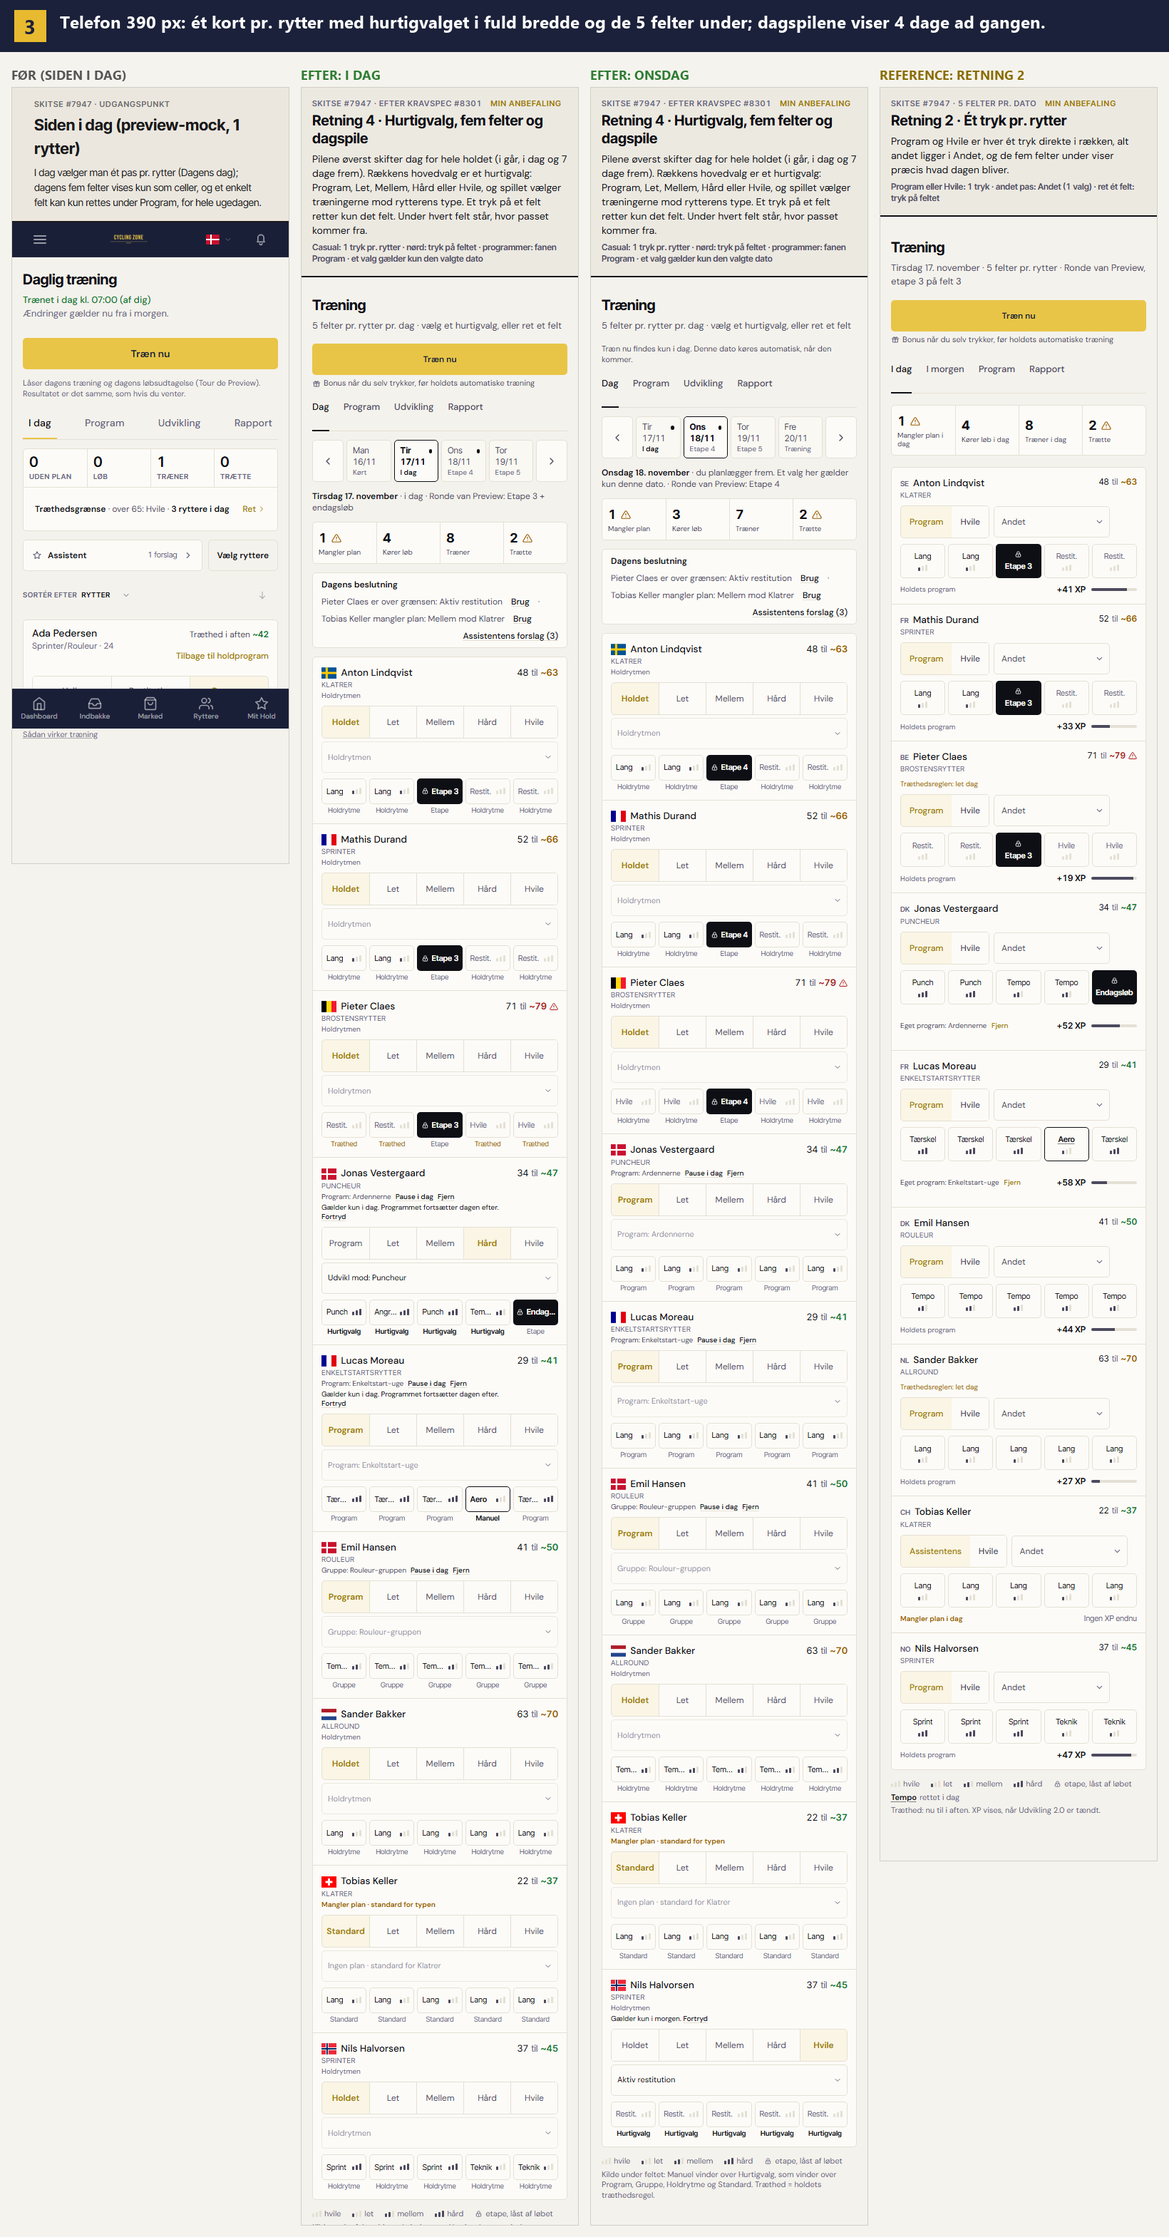
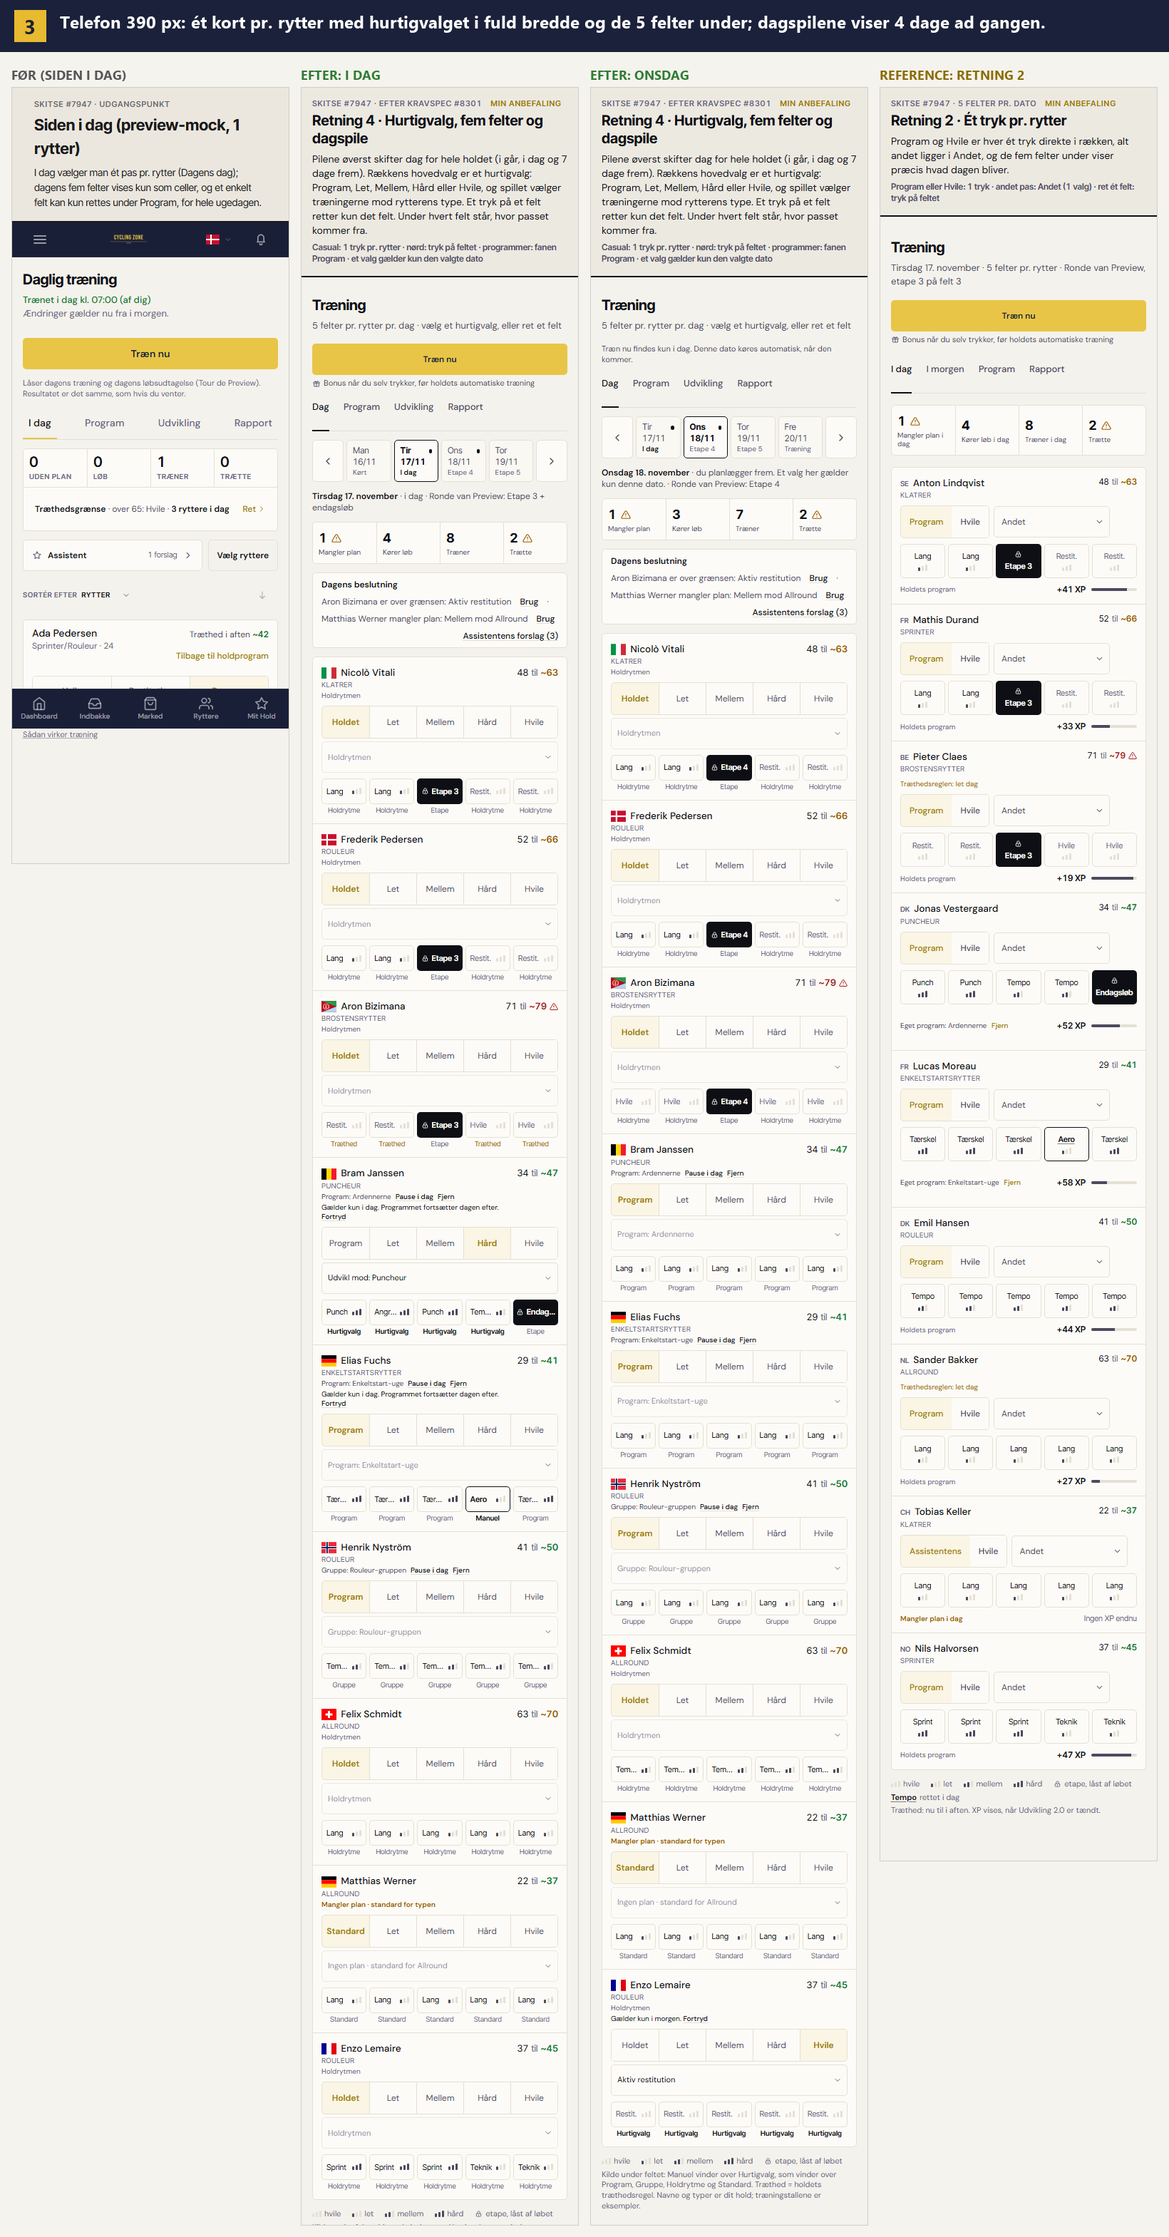
design(7947): R4 med dit hold, spoergsmaal 1-3 i billeder og programmet som uge/rotation (Refs #7947)

diff --git a/frontend/src/preview/sketches/7947-samlet/R4Extras.tsx b/frontend/src/preview/sketches/7947-samlet/R4Extras.tsx
@@ -1,0 +1,198 @@
+// #7947 retning 4, ekstra billeder til ejeren:
+//  - ?v=r4&view=q: tre smaa udsnit, der viser anbefaling mod alternativ for
+//    ejerspoergsmaal 1-3 (kravspec #8301 §7).
+//  - ?v=r4&view=program: programmet som eet objekt med tilstanden uge ELLER
+//    rotation (spm. 5, teknisk valg), med "laas et pas" og pause ved hvile (#7456).
+// Intet her er produktkode.
+
+import type { ReactNode } from "react";
+import { LockIcon } from "../../../components/ui/icons/index.jsx";
+import { levelOf, type Level, type Session } from "./model.ts";
+import { SESSION_SHORT } from "./data.ts";
+import { quickPattern } from "./r4model.ts";
+
+type Cell = Session | "S";
+type Src = "Program" | "Hurtigvalg" | "Etape" | "Kørt";
+
+function Ticks({ level }: { level: Level }) {
+  return (
+    <span aria-hidden="true" className="flex items-end gap-[2px]">
+      {[1, 2, 3].map((n) => <span key={n} className={`w-[3px] rounded-[1px] ${n <= level ? "bg-cz-2" : "bg-cz-border"}`} style={{ height: 3 + n * 2 }} />)}
+    </span>
+  );
+}
+
+function Strip({ cells, src, label }: { cells: Cell[]; src: Src[]; label: string }) {
+  return (
+    <div>
+      <div className="mb-1 font-data text-2xs font-semibold text-cz-2">{label}</div>
+      <div className="grid grid-cols-5 gap-1">
+        {cells.map((c, i) => (
+          <div key={i} className="min-w-0">
+            {c === "S" ? (
+              <span className="flex min-h-8 items-center justify-center gap-1 rounded-cz bg-cz-1 px-1 font-data text-2xs font-semibold text-cz-card"><LockIcon size={10} aria-hidden="true" />Etape</span>
+            ) : (
+              <span className="flex min-h-8 items-center justify-between gap-1 rounded-cz border border-cz-border bg-cz-card px-1.5 font-data text-2xs text-cz-1">
+                {SESSION_SHORT[c]}<Ticks level={levelOf(c)} />
+              </span>
+            )}
+            <div className={`mt-0.5 text-center font-data text-3xs ${src[i] === "Hurtigvalg" ? "font-semibold text-cz-1" : "text-cz-3"}`}>{src[i]}</div>
+          </div>
+        ))}
+      </div>
+    </div>
+  );
+}
+
+// Samme rotation som programkortet: tirsdag = dag 1 (her overstyret af hurtigvalget),
+// onsdag = dag 2, torsdag = dag 3.
+const PROGRAM_WED: Cell[] = ["endurance", "technique", "endurance", "endurance", "recovery"];
+const PROGRAM_THU: Cell[] = ["vo2max_punch", "vo2max_punch", "tempo", "tempo", "recovery"];
+const HARD_PUNCH = quickPattern({ kind: "effort", effort: "hard", type: "Puncheur" });
+const P5: Src[] = ["Program", "Program", "Program", "Program", "Program"];
+const Q5: Src[] = ["Hurtigvalg", "Hurtigvalg", "Hurtigvalg", "Hurtigvalg", "Hurtigvalg"];
+
+function Compare({ n, question, rec, alt }: {
+  n: number; question: string;
+  rec: { title: string; body: ReactNode; note: string };
+  alt: { title: string; body: ReactNode; note: string };
+}) {
+  return (
+    <section className="rounded-cz border border-cz-border bg-cz-card">
+      <header className="border-b border-cz-border px-4 py-3">
+        <div className="font-data text-2xs font-semibold uppercase tracking-[.06em] text-cz-3">Spørgsmål {n}</div>
+        <h2 className="mt-0.5 text-[15px] font-semibold text-cz-1">{question}</h2>
+      </header>
+      <div className="grid gap-px bg-cz-border sm:grid-cols-2">
+        {[{ ...rec, tag: "Anbefaling" }, { ...alt, tag: "Alternativ" }].map((x) => (
+          <div key={x.tag} className="bg-cz-card p-4">
+            <div className={`font-data text-2xs font-semibold uppercase tracking-[.06em] ${x.tag === "Anbefaling" ? "text-cz-1" : "text-cz-3"}`}>{x.tag}</div>
+            <div className="mt-0.5 text-sm font-semibold text-cz-1">{x.title}</div>
+            <div className="mt-3 flex flex-col gap-3">{x.body}</div>
+            <p className="mt-3 text-xs text-cz-2">{x.note}</p>
+          </div>
+        ))}
+      </div>
+    </section>
+  );
+}
+
+export function Questions() {
+  return (
+    <main className="mx-auto flex max-w-[1100px] flex-col gap-4 px-4 pb-16 pt-6 sm:px-8">
+      <p className="text-sm text-cz-2">Bram Janssen (puncheur) følger programmet Ardennerne. Tirsdag (i dag) har du sat hurtigvalget <b className="text-cz-1">Hård mod Puncheur</b>. Sådan ser hans onsdag og torsdag ud:</p>
+      <Compare
+        n={1}
+        question="Hvad gælder på en dato, du ikke har rørt: programmet eller dit seneste hurtigvalg?"
+        rec={{ title: "Programmet", body: <Strip label="Torsdag 19/11 (urørt)" cells={PROGRAM_THU} src={P5} />, note: "Det, du ser i programmet, er det, der sker. Et hurtigvalg flytter sig aldrig til en anden dag." }}
+        alt={{ title: "Seneste hurtigvalg", body: <Strip label="Torsdag 19/11 (urørt)" cells={HARD_PUNCH} src={Q5} />, note: "Hård fortsætter, til du ændrer det. Programmet står stille, uden at det ses i programmet." }}
+      />
+      <Compare
+        n={2}
+        question="Skal dagens valg stadig gælde fremad (stående plan), som i dag?"
+        rec={{
+          title: "Nej, kun datoen",
+          body: (<><Strip label="Tirsdag 17/11 (i dag)" cells={HARD_PUNCH} src={Q5} /><Strip label="Onsdag 18/11" cells={PROGRAM_WED} src={P5} /></>),
+          note: "Onsdag følger programmet igen, og rækken siger \"Gælder kun i dag. Programmet fortsætter i morgen\". Eksisterende stående planer bevares for ryttere uden datoplan.",
+        }}
+        alt={{
+          title: "Ja, gælder fremad",
+          body: (<><Strip label="Tirsdag 17/11 (i dag)" cells={HARD_PUNCH} src={Q5} /><Strip label="Onsdag 18/11" cells={HARD_PUNCH} src={["Hurtigvalg", "Hurtigvalg", "Hurtigvalg", "Hurtigvalg", "Hurtigvalg"]} /></>),
+          note: "Som i dag: valget bliver stående, til du ændrer det. Det er netop den uenighed mellem program og dagens valg, spillerne har klaget over (#8026).",
+        }}
+      />
+      <Compare
+        n={3}
+        question="Hurtigvalg Hård + type: hvilke træninger vælger spillet?"
+        rec={{ title: "Typens standardprogram", body: <Strip label="Hård mod Klatrer" cells={quickPattern({ kind: "effort", effort: "hard", type: "Klatrer" })} src={Q5} />, note: "Altid de samme træninger for samme type og indsats. Forudsigeligt, og spilleren kan se og lære dem." }}
+        alt={{ title: "Rytterens svageste evne", body: <Strip label="Hård mod Klatrer (svagest: enkeltstart)" cells={["threshold", "threshold", "aero", "tempo", "recovery"]} src={Q5} />, note: "Skifter fra rytter til rytter og over tid. Mere \"smart\", men sværere at forudsige. Det er nærmere assistentens forslag." }}
+      />
+    </main>
+  );
+}
+
+// --- Programmet som eet objekt (uge eller rotation) ---------------------------
+
+const ROTATION: Cell[][] = [
+  ["vo2max_punch", "attack_repeats", "tempo", "endurance", "recovery"],
+  ["endurance", "technique", "endurance", "endurance", "recovery"],
+  ["vo2max_punch", "vo2max_punch", "tempo", "tempo", "recovery"],
+  ["rest", "rest", "rest", "rest", "rest"],
+];
+const WEEK: Cell[][] = [
+  ["threshold", "threshold", "threshold", "aero", "threshold"],
+  ["endurance", "endurance", "endurance", "endurance", "endurance"],
+  ["threshold", "threshold", "aero", "tempo", "recovery"],
+  ["aero", "technique", "endurance", "endurance", "recovery"],
+  ["rest", "rest", "rest", "rest", "rest"],
+  ["threshold", "tempo", "tempo", "endurance", "recovery"],
+  ["endurance", "endurance", "endurance", "endurance", "endurance"],
+];
+const WEEKDAY = ["Man", "Tir", "Ons", "Tor", "Fre", "Lør", "Søn"];
+
+function ProgramCard({ name, mode, days, labels, riders, lockedSlot, note }: {
+  name: string; mode: "Rotation" | "Uge"; days: Cell[][]; labels: string[]; riders: string; lockedSlot: number | null; note: string;
+}) {
+  return (
+    <section className="rounded-cz border border-cz-border bg-cz-card">
+      <header className="flex flex-wrap items-center gap-x-3 gap-y-1 border-b border-cz-border px-4 py-3">
+        <h2 className="text-[15px] font-semibold text-cz-1">{name}</h2>
+        <div role="radiogroup" aria-label="Programmets form" className="grid grid-cols-2 overflow-hidden rounded-cz border border-cz-border text-xs">
+          {(["Uge", "Rotation"] as const).map((m, i) => (
+            <span key={m} role="radio" aria-checked={m === mode} className={`px-3 py-1 ${i > 0 ? "border-s border-cz-border" : ""} ${m === mode ? "bg-cz-accent/10 font-semibold text-cz-accent-t" : "text-cz-2"}`}>{m}</span>
+          ))}
+        </div>
+        <span className="text-xs text-cz-2">{riders}</span>
+        <span className="ms-auto text-xs text-cz-2">Eget program · kan gemmes og gives til ryttere eller grupper</span>
+      </header>
+      <div className="overflow-x-auto px-4 py-3">
+        <table className="w-full min-w-[640px] table-fixed text-xs" data-sort-intent="none">
+          <thead>
+            <tr>
+              <th className="w-[120px] pb-1 text-start font-data text-2xs font-semibold uppercase tracking-[.06em] text-cz-3">{mode === "Rotation" ? "Dag i rotationen" : "Ugedag"}</th>
+              {[1, 2, 3, 4, 5].map((n) => (
+                <th key={n} className="pb-1 text-center font-data text-2xs font-semibold uppercase tracking-[.06em] text-cz-3">
+                  Felt {n}{lockedSlot === n - 1 && <span className="ms-1 inline-flex items-center gap-0.5 normal-case text-cz-1"><LockIcon size={10} aria-hidden="true" />låst pas</span>}
+                </th>
+              ))}
+            </tr>
+          </thead>
+          <tbody>
+            {days.map((d, i) => (
+              <tr key={i} className="border-t border-cz-border">
+                <td className="py-1.5 pe-2 font-data text-xs text-cz-1">{labels[i]}</td>
+                {d.map((c, j) => (
+                  <td key={j} className="p-0.5">
+                    {c !== "S" && (
+                      <span className={`flex min-h-8 items-center justify-between gap-1 rounded-cz border bg-cz-card px-1.5 font-data text-2xs ${lockedSlot === j && c !== "rest" ? "border-cz-1 font-semibold text-cz-1" : "border-cz-border text-cz-1"}`}>
+                        {SESSION_SHORT[c]}<Ticks level={levelOf(c)} />
+                      </span>
+                    )}
+                  </td>
+                ))}
+              </tr>
+            ))}
+          </tbody>
+        </table>
+        <p className="mt-2 text-xs text-cz-2">{note}</p>
+      </div>
+    </section>
+  );
+}
+
+export function ProgramView() {
+  return (
+    <main className="mx-auto flex max-w-[1100px] flex-col gap-4 px-4 pb-16 pt-6 sm:px-8">
+      <p className="text-sm text-cz-2">Fanen Program. Ét programobjekt med to former. <b className="text-cz-1">Uge</b> følger ugedagene. <b className="text-cz-1">Rotation</b> kører dag 1, 2, 3 … og rykker kun frem på dage med træning, så et løb skubber rotationen i stedet for at springe en dag over (#7456).</p>
+      <ProgramCard
+        name="Ardennerne" mode="Rotation" days={ROTATION} labels={["Dag 1", "Dag 2", "Dag 3", "Dag 4 · hvile"]}
+        riders="Følges af Bram Janssen" lockedSlot={0}
+        note="Felt 1 er låst: kører Bram et løb, tager løbet dagens mindst vigtige pas, og Punch-intervallerne bliver stående. I dag er han på dag 1; hurtigvalget i dag gælder kun i dag, og rotationen fortsætter med dag 2 i morgen."
+      />
+      <ProgramCard
+        name="Enkeltstart-uge" mode="Uge" days={WEEK} labels={WEEKDAY} riders="Følges af Elias Fuchs" lockedSlot={null}
+        note="Samme objekt i formen Uge: det, holdets 35 felter (7 dage × 5 felter) er i dag. Et program gives til en rytter, en gruppe eller hele holdet, og rækken på Dag viser altid, hvilket program feltet kommer fra."
+      />
+    </main>
+  );
+}

diff --git a/frontend/src/preview/sketches/7947-samlet/R4.tsx b/frontend/src/preview/sketches/7947-samlet/R4.tsx
@@ -33,7 +33,20 @@ const DATES = [
 const TODAY = 1;
 const RACE_ON: Record<number, string> = { 0: "Etape 2", 1: "Etape 3 + endagsløb", 2: "Etape 4", 3: "Etape 5" };
 
-const FLAG: Record<string, string> = { SE: "se", FR: "fr", BE: "be", DK: "dk", NL: "nl", CH: "ch", NO: "no" };
+// Ejerens hold (prod, kun SELECT 17/11): navne, nation og ryttertype er ægte.
+// Træningstallene (træthed, felter, XP) er eksempler.
+const REAL: Record<string, { name: string; nation: string; type: string }> = {
+  r1: { name: "Nicolò Vitali", nation: "it", type: "Klatrer" },
+  r2: { name: "Frederik Pedersen", nation: "dk", type: "Rouleur" },
+  r3: { name: "Aron Bizimana", nation: "er", type: "Brostensrytter" },
+  r4: { name: "Bram Janssen", nation: "be", type: "Puncheur" },
+  r5: { name: "Elias Fuchs", nation: "de", type: "Enkeltstartsrytter" },
+  r6: { name: "Henrik Nyström", nation: "no", type: "Rouleur" },
+  r7: { name: "Felix Schmidt", nation: "ch", type: "Allround" },
+  r8: { name: "Matthias Werner", nation: "de", type: "Allround" },
+  r9: { name: "Enzo Lemaire", nation: "fr", type: "Rouleur" },
+};
+const TEAM: SketchRider[] = RIDERS.map((r) => ({ ...r, ...REAL[r.id] }));
 
 type Origin = { source: BaseSource; label: string };
 const ORIGIN: Record<string, Origin> = {
@@ -44,7 +57,7 @@ const ORIGIN: Record<string, Origin> = {
   r5: { source: "program", label: "Program: Enkeltstart-uge" },
   r6: { source: "group", label: "Gruppe: Rouleur-gruppen" },
   r7: { source: "team", label: "Holdrytmen" },
-  r8: { source: "default", label: "Ingen plan · standard for Klatrer" },
+  r8: { source: "default", label: "Ingen plan · standard for Allround" },
   r9: { source: "team", label: "Holdrytmen" },
 };
 
@@ -225,7 +238,7 @@ function RiderCell({ rider, override, dateLabel, onRemove }: { rider: SketchRide
   return (
     <div className="min-w-0">
       <div className="flex items-center gap-1.5">
-        <Flag code={FLAG[rider.nation]} title={rider.nation} />
+        <Flag code={rider.nation} />
         <a href="#rider" className="truncate text-[13.5px] font-medium text-cz-1 hover:underline">{rider.name}</a>
       </div>
       <div className="truncate font-data text-3xs uppercase tracking-[.04em] text-cz-3">{rider.type}</div>
@@ -278,7 +291,7 @@ export default function Direction4({ pressedAtStart, dateAtStart, mobile }: { pr
   const write = (id: string, d: number, next: DateState) =>
     setPlans((p) => ({ ...p, [id]: { ...(p[id] ?? {}), [d]: next } }));
 
-  const rows = useMemo(() => RIDERS.map((r) => {
+  const rows = useMemo(() => TEAM.map((r) => {
     const st = stateOf(r.id, date);
     let fields = resolveDate(baseFor(r, date), st.quick, st.manual);
     if (pressed && isToday) fields = fields.map((f) => (f.kind === "train" ? { ...f, done: true } : f));
@@ -289,10 +302,10 @@ export default function Direction4({ pressedAtStart, dateAtStart, mobile }: { pr
   for (const byDate of Object.values(plans)) for (const [d, st] of Object.entries(byDate)) if (hasDateOverride(st.quick, st.manual)) changedDates.add(Number(d));
 
   const counts = {
-    needsPlan: RIDERS.filter((r) => ORIGIN[r.id].source === "default").length,
+    needsPlan: TEAM.filter((r) => ORIGIN[r.id].source === "default").length,
     racing: rows.filter((x) => x.fields.some((f) => f.kind === "stage")).length,
     training: rows.filter((x) => x.fields.some((f) => f.kind === "train" && levelOf(f.session) > 0)).length,
-    tired: RIDERS.filter((r) => r.tone === "risk" || r.ruleNote !== null).length,
+    tired: TEAM.filter((r) => r.tone === "risk" || r.ruleNote !== null).length,
   };
   const readOnly = isPast || (pressed && isToday);
 
@@ -380,10 +393,10 @@ export default function Direction4({ pressedAtStart, dateAtStart, mobile }: { pr
       {!readOnly && (
         <div className="mb-3 flex flex-wrap items-center gap-x-3 gap-y-2 rounded-cz border border-cz-border bg-cz-card px-3 py-2 text-xs">
           <span className="font-semibold text-cz-1">Dagens beslutning</span>
-          <span className="text-cz-2">Pieter Claes er over grænsen: Aktiv restitution</span>
+          <span className="text-cz-2">Aron Bizimana er over grænsen: Aktiv restitution</span>
           <button type="button" className="font-medium text-cz-1 underline decoration-cz-border underline-offset-2">Brug</button>
           <span className="text-cz-3">·</span>
-          <span className="text-cz-2">Tobias Keller mangler plan: Mellem mod Klatrer</span>
+          <span className="text-cz-2">Matthias Werner mangler plan: Mellem mod Allround</span>
           <button type="button" className="font-medium text-cz-1 underline decoration-cz-border underline-offset-2">Brug</button>
           <span className="ms-auto text-cz-2"><button type="button" className="font-medium text-cz-1 underline decoration-cz-border underline-offset-2">Assistentens forslag (3)</button></span>
         </div>
@@ -476,7 +489,7 @@ export default function Direction4({ pressedAtStart, dateAtStart, mobile }: { pr
         <span className="inline-flex items-center gap-1"><LevelTicks level={2} /> mellem</span>
         <span className="inline-flex items-center gap-1"><LevelTicks level={3} /> hård</span>
         <span className="inline-flex items-center gap-1"><LockIcon size={11} aria-hidden="true" /> etape, låst af løbet</span>
-        <span>Kilde under feltet: Manuel vinder over Hurtigvalg, som vinder over Program, Gruppe, Holdrytme og Standard. Træthed = holdets træthedsregel.</span>
+        <span>Kilde under feltet: Manuel vinder over Hurtigvalg, som vinder over Program, Gruppe, Holdrytme og Standard. Træthed = holdets træthedsregel. Navne og typer er dit hold; træningstallene er eksempler.</span>
       </p>
     </main>
   );

diff --git a/frontend/src/preview/sketches/7947-samlet/main.tsx b/frontend/src/preview/sketches/7947-samlet/main.tsx
@@ -6,6 +6,8 @@ import { createRoot } from "react-dom/client";
 import "../../../index.css";
 import Sketch from "./Sketch.tsx";
 import Direction4 from "./R4.tsx";
+import { ProgramView, Questions } from "./R4Extras.tsx";
+const view = new URLSearchParams(window.location.search).get("view");
 
 const IDS = ["r4", "r1", "r2", "r3"] as const;
 type Id = (typeof IDS)[number];
@@ -71,7 +73,9 @@ createRoot(document.getElementById("root")!).render(
     {id === "r4" ? (
       <div className="min-h-screen bg-cz-body">
         <Banner4 />
-        <Direction4 key={`r4-${pressed}-${dateParam}`} pressedAtStart={pressed} dateAtStart={dateParam} mobile={mobile} />
+        {view === "q" ? <Questions /> : view === "program" ? <ProgramView /> : (
+          <Direction4 key={`r4-${pressed}-${dateParam}`} pressedAtStart={pressed} dateAtStart={dateParam} mobile={mobile} />
+        )}
       </div>
     ) : (
       <Sketch key={`${id}-${pressed}`} id={id} pressed={pressed} openDay={openDay} />
